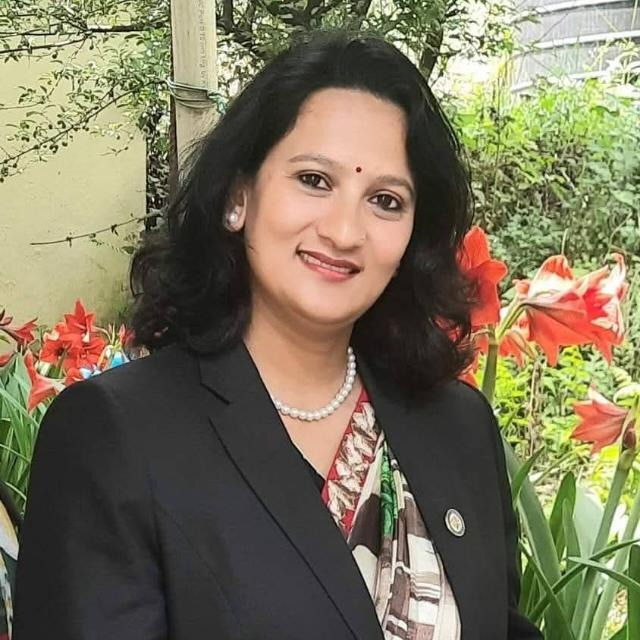
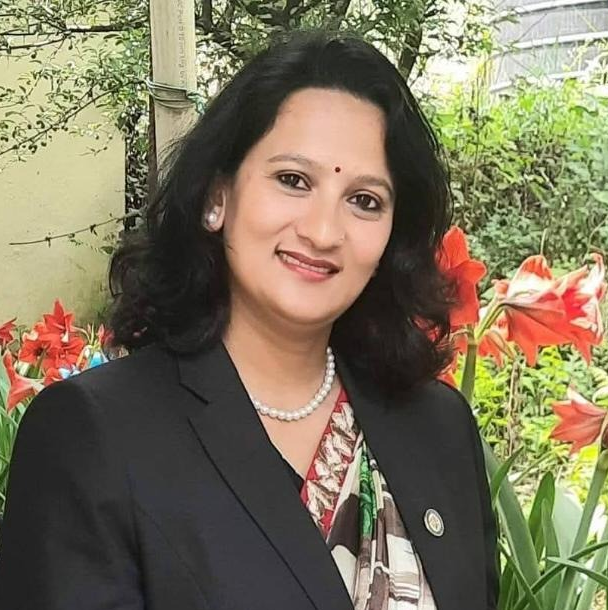
updates

diff --git a/src/data/siteContent.js b/src/data/siteContent.js
@@ -379,8 +379,8 @@ export const team = [
     phone: '+977 9857833579',
     email: '',
     photo: '/images/team/sirjansil.jpeg',
-    bioEn: 'Srijanshil Rajbhandari is a legal professional from Pyuthan Municipality-4, Pyuthan. He holds a B.A. LL.B. degree from National Law College, Tribhuvan University. He gained professional experience in the field of human rights through an internship with the Strategic Plan Support Project (SPSP), UNDP. He has been practicing law as an Advocate since obtaining his Advocate’s License in 2022 and currently serves as a Legal Advisor. His areas of interest include human rights, child and women’s rights, senior citizens welfare and access to justice. As a member of the organization, he seeks to contribute his legal knowledge, professional experience, and expertise toward the protection and promotion of human rights, strengthening access to justice, and advancing social justice, legal awareness, and community welfare.',
-    bioNp: 'सृजनशील राजभण्डारी प्युठान नगरपालिका-४, प्युठानका एक कानुनी व्यवसायी हुनुहुन्छ। उहाँले राष्ट्रिय ल कलेज, त्रिभुवन विश्वविद्यालयबाट B.A. LL.B. (बैचलर अफ आर्ट्स एण्ड बैचलर अफ ल) को डिग्री हासिल गर्नुभएको छ। उहाँले संयुक्त राष्ट्र विकास कार्यक्रम (UNDP) अन्तर्गतको स्ट्राटेजिक प्लान सपोर्ट प्रोजेक्ट (SPSP) मा इन्टर्नशिप गर्दै मानव अधिकारको क्षेत्रमा व्यावसायिक अनुभव हासिल गर्नुभएको छ। उहाँले २०२२ मा अधिवक्ताको लाइसेन्स प्राप्त गरेपछि अधिवक्ताका रूपमा कानुन व्यवसाय गर्दै आउनुभएको छ र हाल कानुनी सल्लाहकारको रूपमा कार्यरत हुनुहुन्छ। उहाँको रुचिका क्षेत्रहरूमा मानव अधिकार, बाल तथा महिला अधिकार, वरिष्ठ नागरिक कल्याण र न्यायमा पहुँच समावेश छन्। संस्थाका सदस्यका रूपमा उहाँ आफ्नो कानुनी ज्ञान, व्यावसायिक अनुभव र विशेषज्ञता मानव अधिकारको संरक्षण र प्रवर्द्धन, न्यायमा पहुँच सुदृढीकरण, सामाजिक न्याय, कानुनी सचेतना र सामुदायिक कल्याणमा योगदान पुर्याउन चाहनुहुन्छ।',
+    bioEn: 'Srijanshil Rajbhandari is a legal professional from Pyuthan Municipality-4, Pyuthan. He holds a B.A. LL.B. degree from National Law College, Tribhuvan University. He gained professional experience in the field of human rights through an internship with the Strategic Plan Support Project (SPSP), UNDP. He has been practicing law as an Advocate since obtaining his Advocate’s License in 2022. His areas of interest include human rights, child and women’s rights, senior citizens welfare and access to justice. As a member of the organization, he seeks to contribute his legal knowledge, professional experience, and expertise toward the protection and promotion of human rights, strengthening access to justice, and advancing social justice, legal awareness, and community welfare.',
+    bioNp: 'सृजनशील राजभण्डारी प्युठान नगरपालिका-४, प्युठानका एक कानुनी व्यवसायी हुनुहुन्छ। उहाँले त्रिभुवन विश्वविद्यालयअन्तर्गत राष्ट्रिय ल कलेजबाट B.A. LL.B. (बैचलर अफ आर्ट्स एण्ड बैचलर अफ ल) उत्तीर्ण गर्नुभएको छ। उहाँले संयुक्त राष्ट्र विकास कार्यक्रम (UNDP) अन्तर्गतको स्ट्राटेजिक प्लान सपोर्ट प्रोजेक्ट (SPSP) मा इन्टर्नशिप गर्दै मानव अधिकारको क्षेत्रमा व्यावसायिक अनुभव हासिल गर्नुभएको छ। उहाँले २०२२ सालमा अधिवक्ताको लाइसेन्स प्राप्त गरेपछि अधिवक्ताका रूपमा कानुन व्यवसाय गर्दै आउनुभएको छ। उहाँको रुचिका क्षेत्रहरूमा मानव अधिकार, बाल तथा महिला अधिकार, वरिष्ठ नागरिक कल्याण र न्यायमा पहुँच समावेश छन्। संस्थाका सदस्यका रूपमा उहाँ आफ्नो कानुनी ज्ञान, व्यावसायिक अनुभव र विशेषज्ञतालाई मानव अधिकारको संरक्षण र प्रवर्धन, न्यायमा पहुँच सुदृढीकरण, सामाजिक न्याय, कानुनी सचेतना र सामुदायिक कल्याणको लागि योगदान पुर्याउन चाहनुहुन्छ।',
   },
   {
     id: 6,
